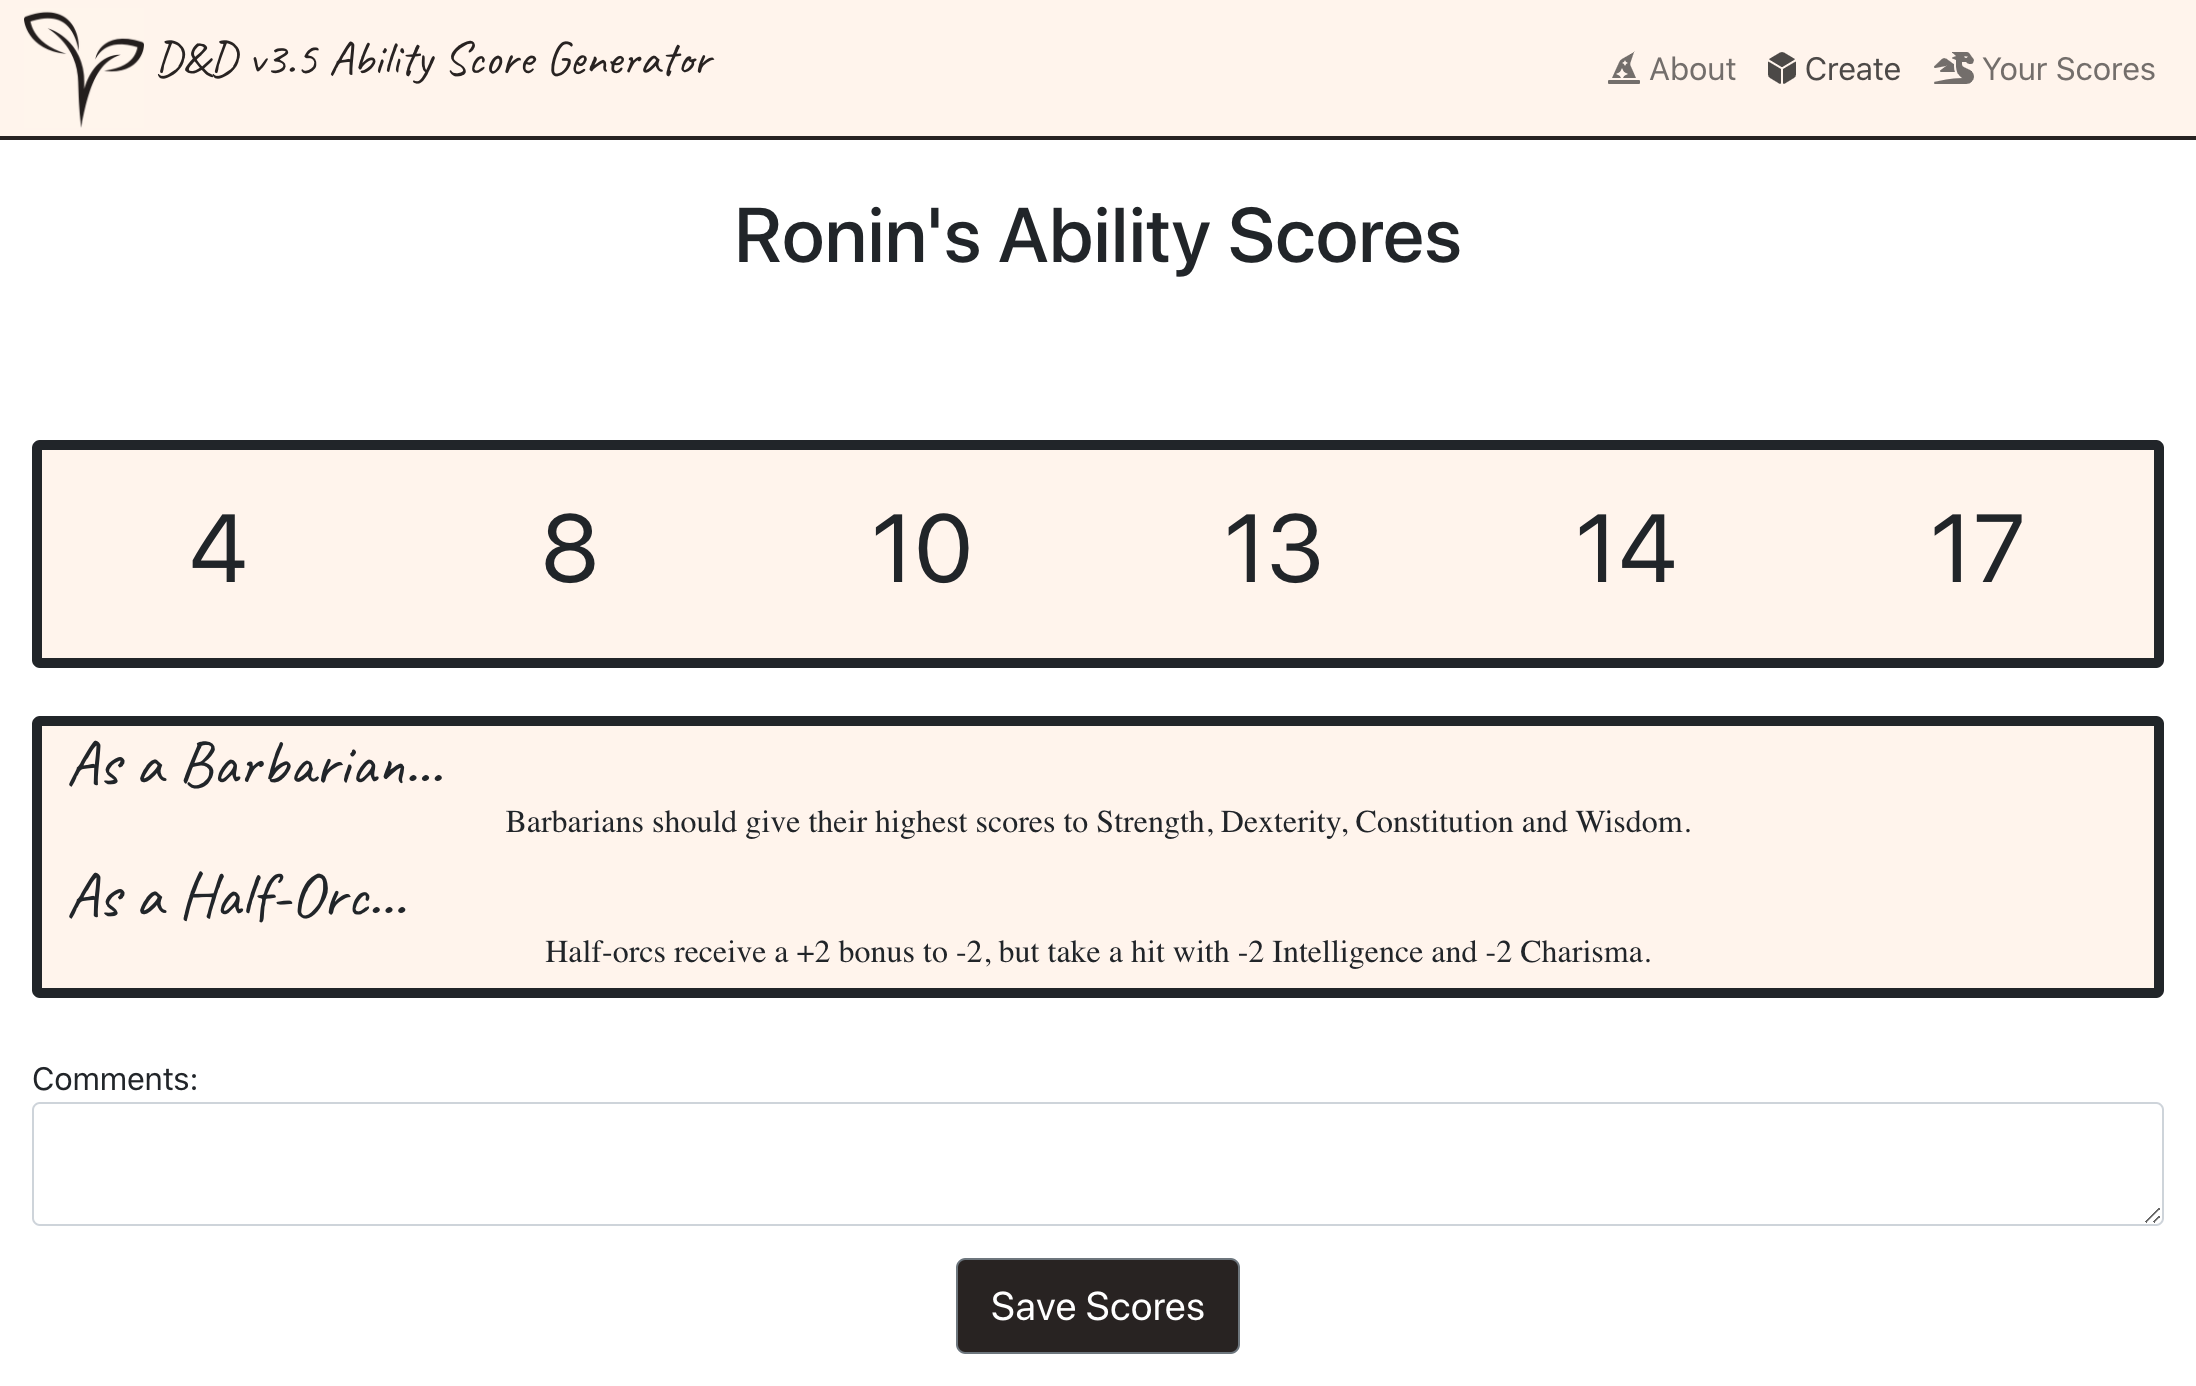
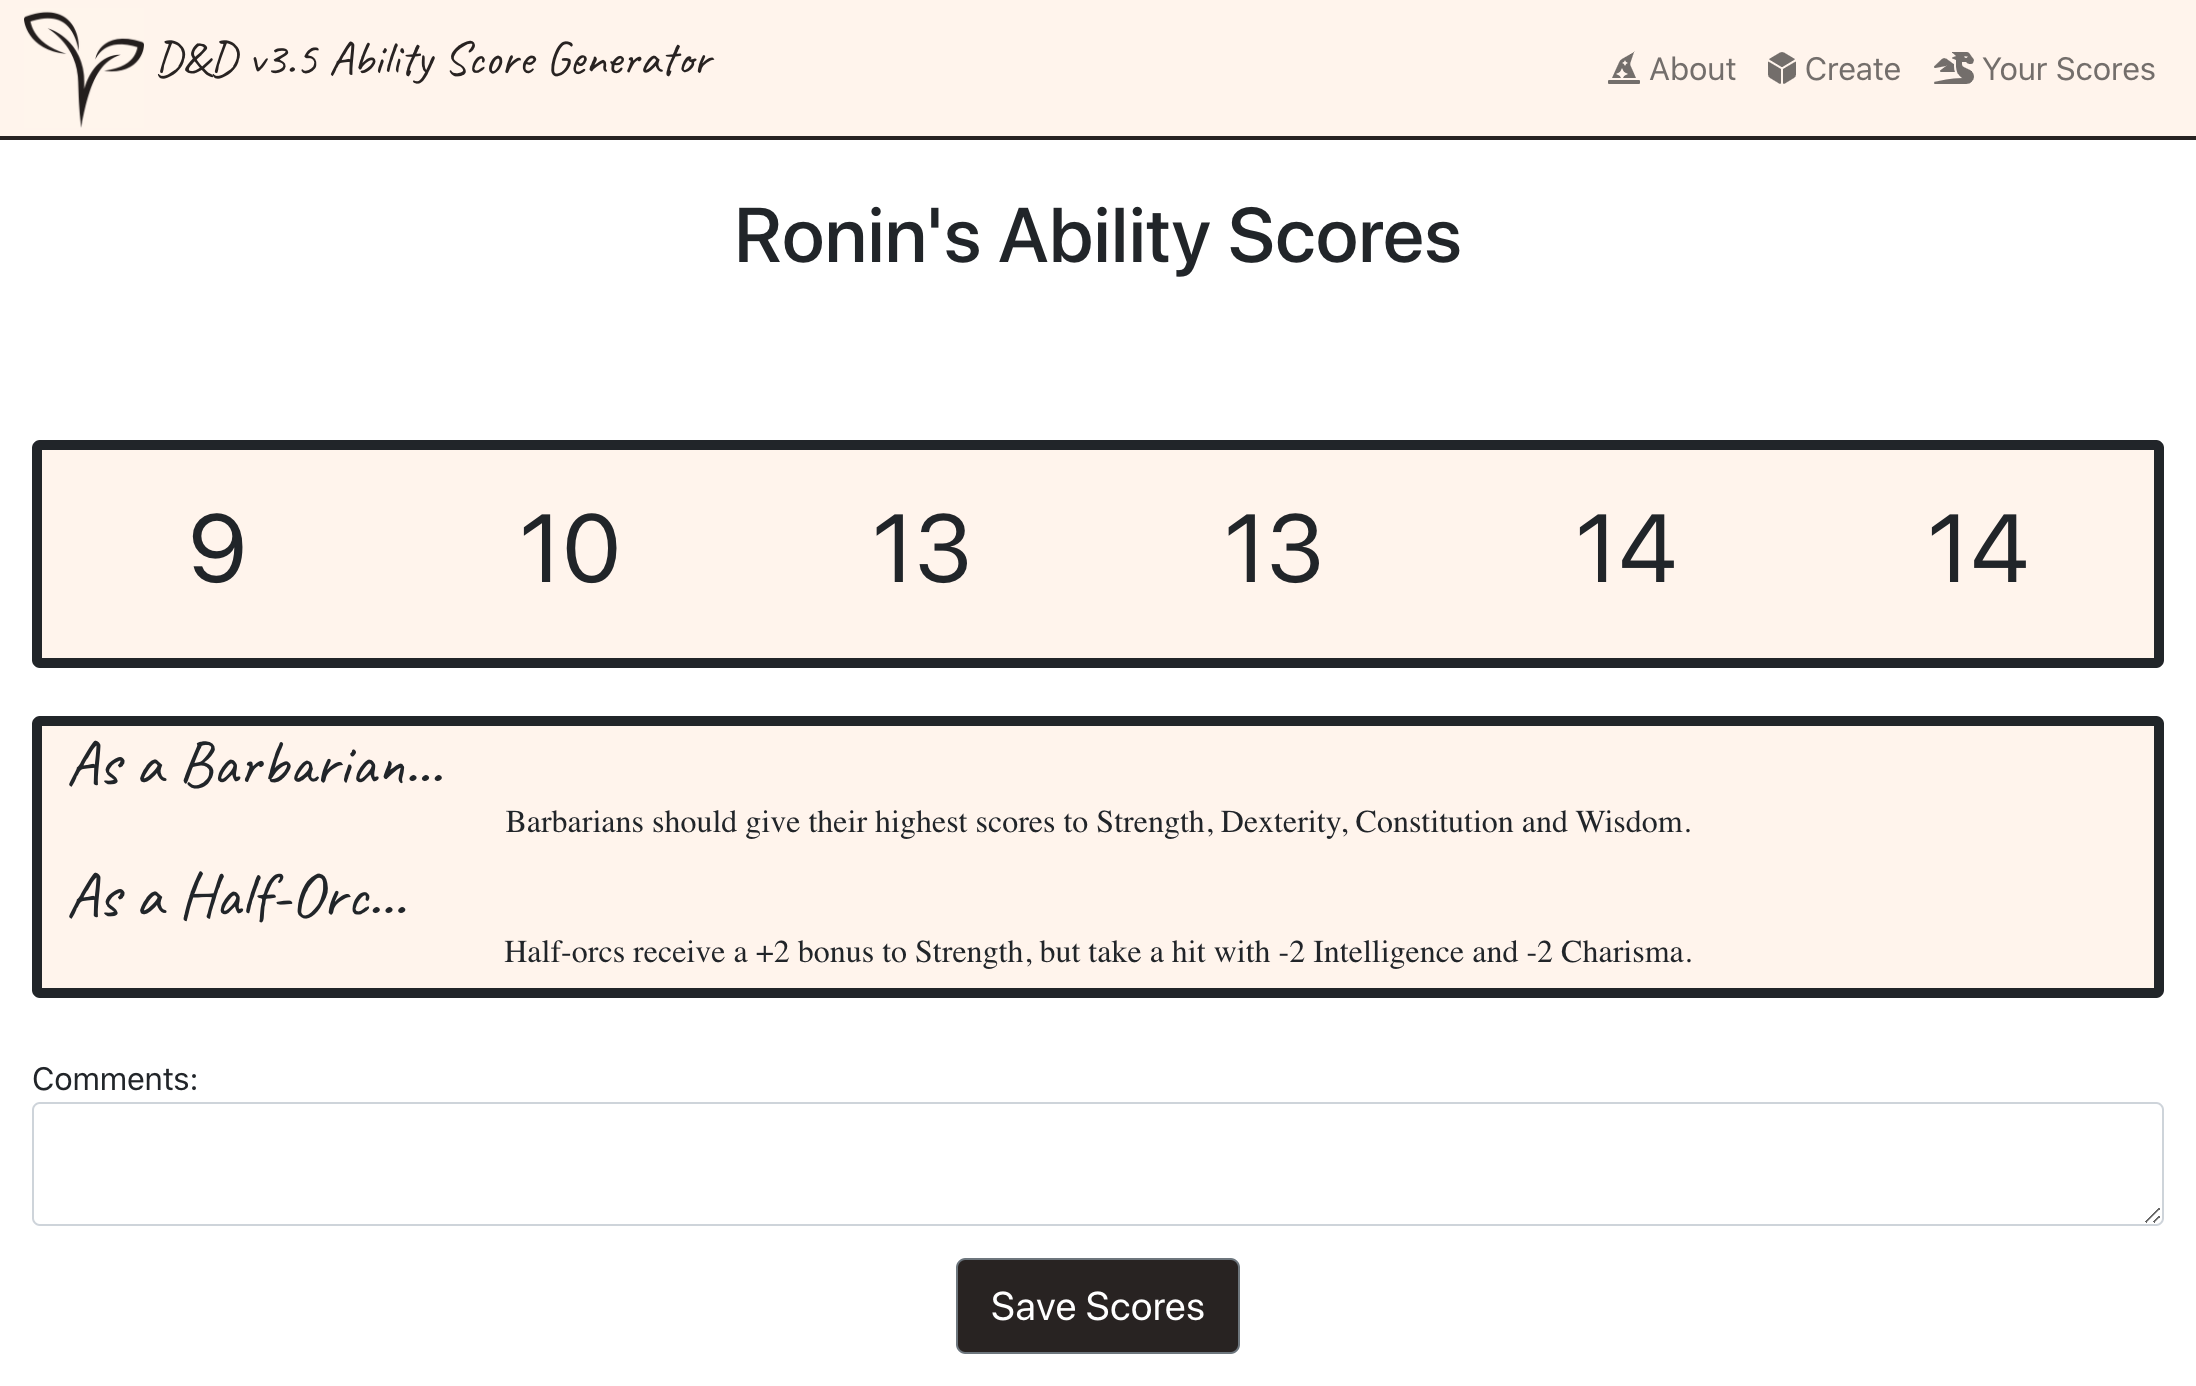
fixed error in half-orc recommendation, updated screenshots to reflect this change.

diff --git a/src/components/generatescore/RenderRaceMsg.js b/src/components/generatescore/RenderRaceMsg.js
@@ -7,7 +7,7 @@ const renderRaceMsg = (characterrace) => {
         case "Gnome":
             return <div>Gnomes receive a +2 modifier to Constitution, but their small size causes them to take a -2 hit to Strength.</div>
         case "Half-Orc":
-            return <div>Half-orcs receive a +2 bonus to -2, but take a hit with -2 Intelligence and -2 Charisma. </div>
+            return <div>Half-orcs receive a +2 bonus to Strength, but take a hit with -2 Intelligence and -2 Charisma. </div>
         case "Dwarf":
             return <div>Dwarves receive a +2 bonus to Constitution, but take a -2 hit to Charisma.</div>
         case "Half-elf":
